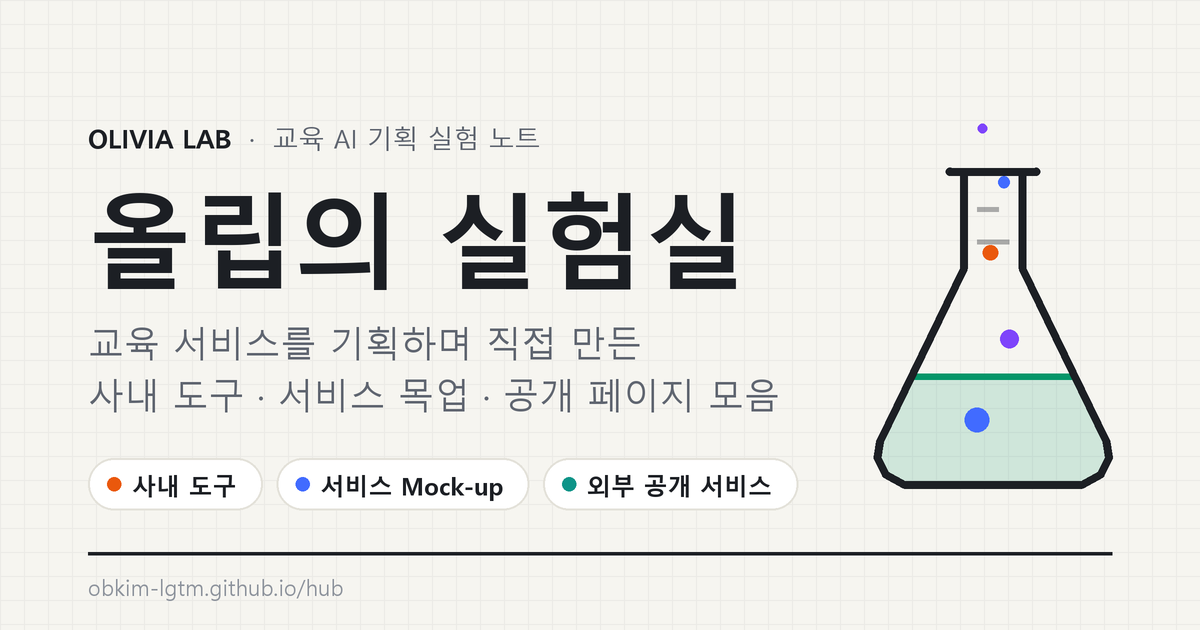
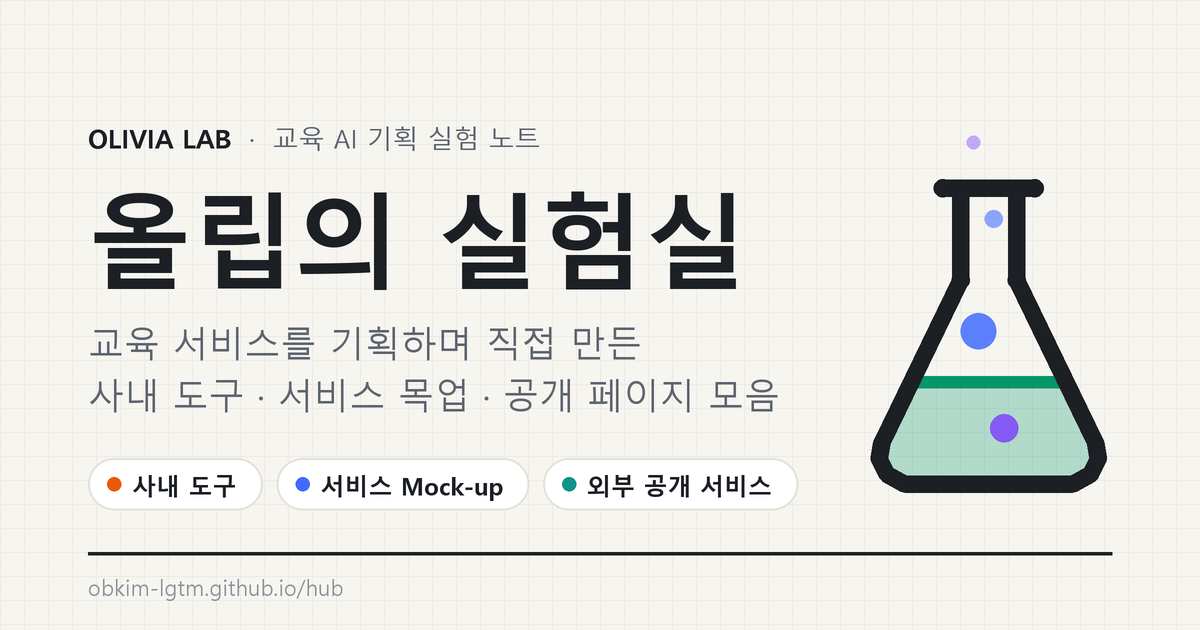
허브: OG 이미지 플라스크를 파비콘 결로 (굵은 외곽선·진한 액체·파랑/보라 거품), og.png v2

Changed region(s): [[0.7092, 0.181, 0.925, 0.7841]]

diff --git a/index.html b/index.html
@@ -11,14 +11,14 @@
   <meta property="og:title" content="올립의 실험실">
   <meta property="og:description" content="교육 서비스를 기획하며 직접 만든 사내 도구 · 서비스 목업 · 공개 페이지 모음">
   <meta property="og:url" content="https://obkim-lgtm.github.io/hub/">
-  <meta property="og:image" content="https://obkim-lgtm.github.io/hub/og.png?v=1">
+  <meta property="og:image" content="https://obkim-lgtm.github.io/hub/og.png?v=2">
   <meta property="og:image:width" content="1200">
   <meta property="og:image:height" content="630">
   <meta property="og:image:alt" content="올립의 실험실 — 사내 도구, 서비스 Mock-up, 외부 공개 서비스">
   <meta name="twitter:card" content="summary_large_image">
   <meta name="twitter:title" content="올립의 실험실">
   <meta name="twitter:description" content="교육 서비스를 기획하며 직접 만든 사내 도구 · 서비스 목업 · 공개 페이지 모음">
-  <meta name="twitter:image" content="https://obkim-lgtm.github.io/hub/og.png?v=1">
+  <meta name="twitter:image" content="https://obkim-lgtm.github.io/hub/og.png?v=2">
   <link rel="icon" type="image/svg+xml" href="favicon-lab.svg?v=3">
   <link rel="icon" type="image/png" sizes="32x32" href="favicon-lab-32.png?v=3">
   <link rel="apple-touch-icon" href="apple-touch-icon.png?v=3">

diff --git a/tools/make_og.py b/tools/make_og.py
@@ -90,21 +90,19 @@ def og(path):
     d.rectangle([L, 552 * S, W - L, 552 * S + 3 * S], fill=INK)
     d.text((L, 572 * S), "obkim-lgtm.github.io/hub", font=font(FONT_R, 22, S), fill=FAINT)
 
-    # flask (header SVG, scaled)
-    k = 2.7 * S
-    ox, oy = 842 * S, 150 * S
+    # flask — 파비콘과 같은 결(굵은 외곽선·진한 액체·파랑/보라 거품)
+    k = 2.55 * S
+    ox, oy = 846 * S, 168 * S
     P = lambda pts: [(ox + px * k, oy + py * k) for px, py in pts]
-    d.polygon(P(liquid_poly()), fill=GREEN + (41,))
-    d.line(P([(25.6, 84), (86.4, 84)]), fill=GREEN, width=int(2.5 * k))
-    for (bx, by, br, col) in [(50, 100, 4.5, BLUE), (62, 70, 3.4, PURPLE), (55, 38, 2.8, ORANGE), (60, 12, 2.2, BLUE), (52, -8, 1.8, PURPLE)]:
+    d.polygon(P(liquid_poly()), fill=GREEN + (72,))
+    d.line(P([(25.6, 84), (86.4, 84)]), fill=GREEN, width=int(5 * k))
+    for (bx, by, br, col, a) in [(52, 64, 7, BLUE, 217), (62, 102, 5.5, PURPLE, 217), (58, 20, 3.5, BLUE, 150), (50, -10, 2.6, PURPLE, 110)]:
         cx, cy, rr = ox + bx * k, oy + by * k, br * k
-        d.ellipse([cx - rr, cy - rr, cx + rr, cy + rr], fill=col)
-    d.line(P(flask_outline()), fill=INK, width=int(3 * k), joint="curve")
-    d.line(P([(40, 8), (72, 8)]), fill=INK, width=int(3 * k))
-    for (ax, ay, bx2, by2) in [(50, 22, 58, 22), (50, 34, 62, 34)]:
-        d.line(P([(ax, ay), (bx2, by2)]), fill=INK + (90,), width=int(2 * k))
-    for (ax, ay) in [(40, 8), (72, 8)]:
-        cx, cy, rr = ox + ax * k, oy + ay * k, 1.5 * k
+        d.ellipse([cx - rr, cy - rr, cx + rr, cy + rr], fill=col + (a,))
+    d.line(P(flask_outline()), fill=INK, width=int(7 * k), joint="curve")
+    d.line(P([(38, 8), (74, 8)]), fill=INK, width=int(7 * k))
+    for (ax, ay) in [(38, 8), (74, 8), (45, 44), (67, 44)]:
+        cx, cy, rr = ox + ax * k, oy + ay * k, 3.5 * k
         d.ellipse([cx - rr, cy - rr, cx + rr, cy + rr], fill=INK)
 
     img = img.resize((1200, 630), Image.LANCZOS)
